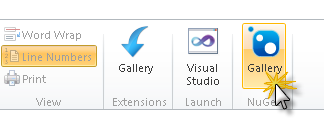
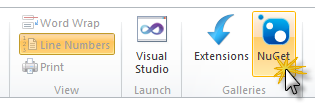
made some changes to update documentation to new WM2 release

diff --git a/HOL.md b/HOL.md
@@ -1,4 +1,4 @@
-<a name="Title"></a>
+<a name="Title"></a>
 # Building and Publishing Web Applications with Windows Azure Web Sites and WebMatrix 2#
 
 ---
@@ -285,7 +285,7 @@ In this task you will use **NuGet Packages** to install the **Facebook Helper** 
 
     _Switching to the Files tab_
 
-1. Click **Gallery** within the ribbon bar to open the **NuGet Packages Gallery**.
+1. Click **NuGet** within the ribbon bar to open the **NuGet Packages Gallery**.
 
 	NuGet is a package management tool that allows you to download and install community-contributed code helpers for common tasks like social network integration and mobile support.
 
